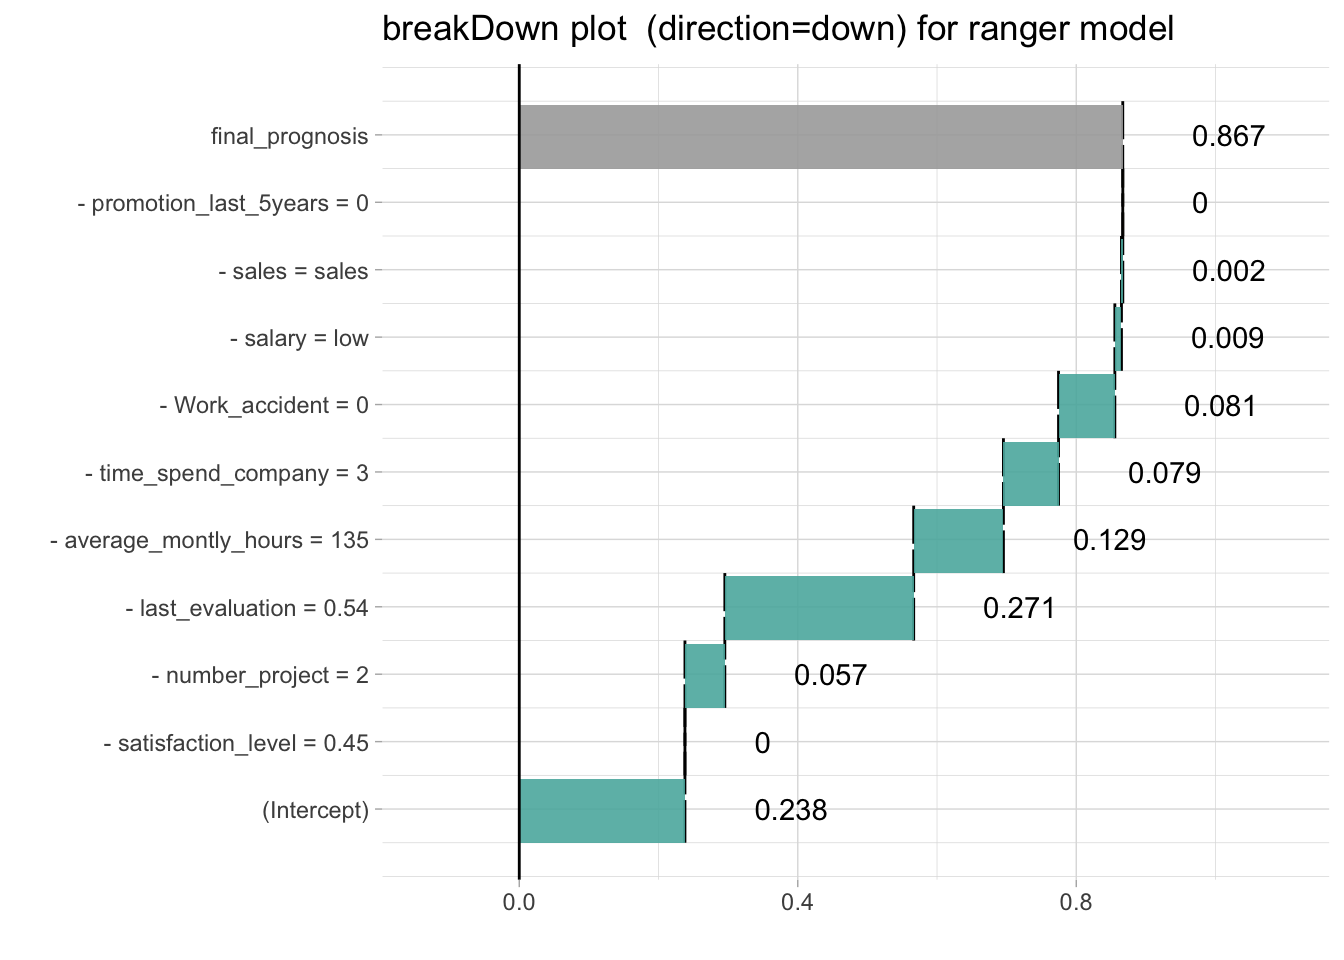
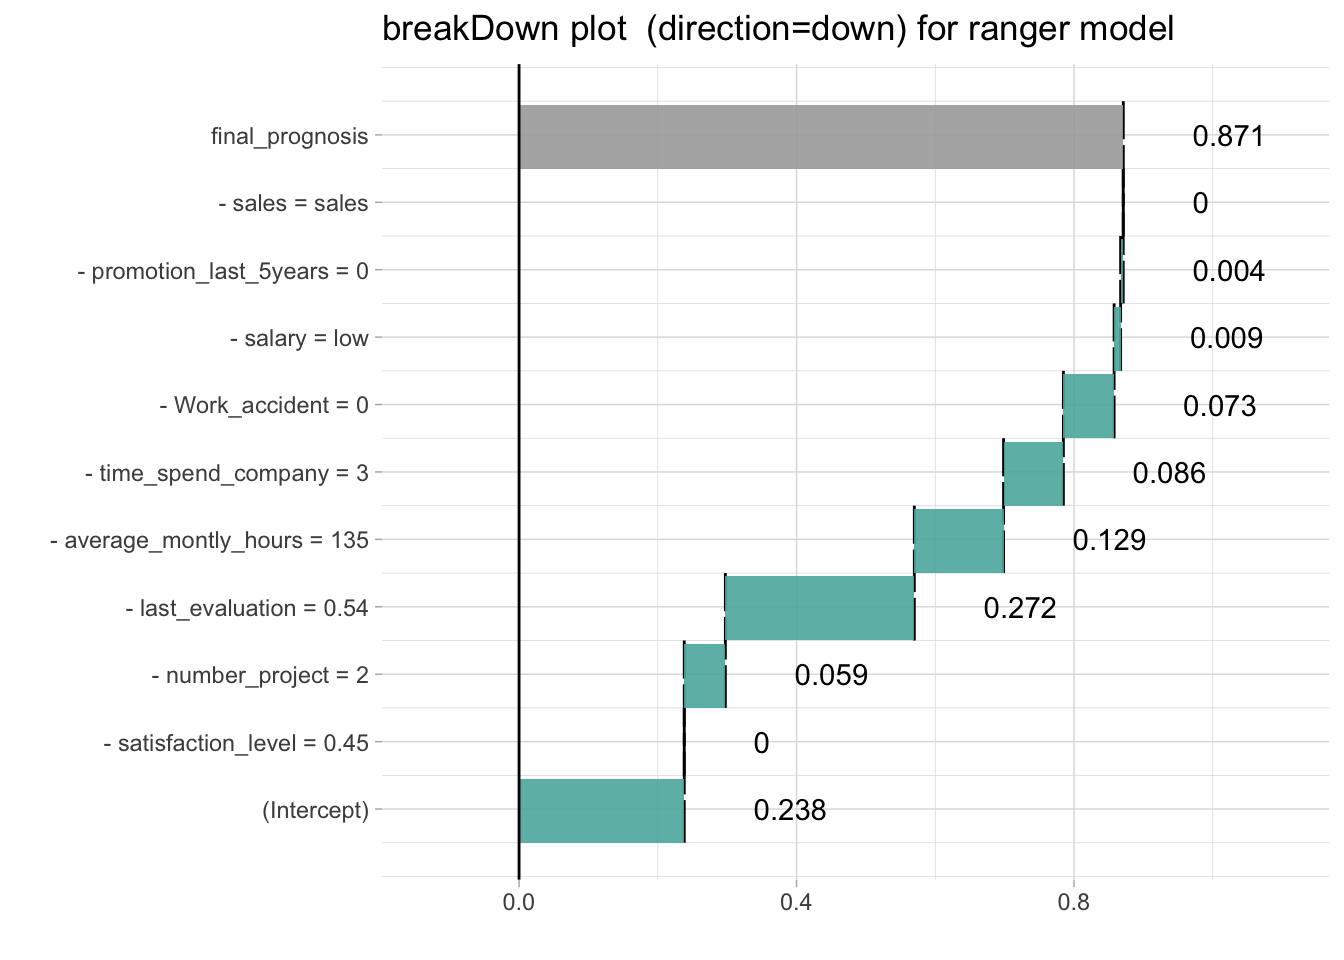
+examples for model agnostic plots

diff --git a/docs/articles/break_ranger.html b/docs/articles/break_ranger.html
@@ -107,7 +107,7 @@ predict.function &lt;-<span class="st"> </span><span class="cf">function</span>(
 
 <span class="kw">predict.function</span>(model, HR_data[<span class="dv">11</span>,])
 <span class="co">#&gt;         1 </span>
-<span class="co">#&gt; 0.8668166</span></code></pre></div>
+<span class="co">#&gt; 0.8710377</span></code></pre></div>
 <p>But how to understand which factors drive predictions for a single observation?</p>
 <p>With the <code>breakDown</code> package!</p>
 <p>Explanations for the trees votings.</p>
@@ -120,15 +120,15 @@ explain_<span class="dv">1</span>
 <span class="co">#&gt;                              contribution</span>
 <span class="co">#&gt; (Intercept)                         0.238</span>
 <span class="co">#&gt; - satisfaction_level = 0.45         0.000</span>
-<span class="co">#&gt; - number_project = 2                0.057</span>
-<span class="co">#&gt; - last_evaluation = 0.54            0.271</span>
+<span class="co">#&gt; - number_project = 2                0.059</span>
+<span class="co">#&gt; - last_evaluation = 0.54            0.272</span>
 <span class="co">#&gt; - average_montly_hours = 135        0.129</span>
-<span class="co">#&gt; - time_spend_company = 3            0.079</span>
-<span class="co">#&gt; - Work_accident = 0                 0.081</span>
+<span class="co">#&gt; - time_spend_company = 3            0.086</span>
+<span class="co">#&gt; - Work_accident = 0                 0.073</span>
 <span class="co">#&gt; - salary = low                      0.009</span>
-<span class="co">#&gt; - sales = sales                     0.002</span>
-<span class="co">#&gt; - promotion_last_5years = 0         0.000</span>
-<span class="co">#&gt; final_prognosis                     0.867</span>
+<span class="co">#&gt; - promotion_last_5years = 0         0.004</span>
+<span class="co">#&gt; - sales = sales                     0.000</span>
+<span class="co">#&gt; final_prognosis                     0.871</span>
 <span class="co">#&gt; baseline:  0</span>
 <span class="kw">plot</span>(explain_<span class="dv">1</span>) <span class="op">+</span><span class="st"> </span><span class="kw"><a href="http://www.rdocumentation.org/packages/ggplot2/topics/labs">ggtitle</a></span>(<span class="st">"breakDown plot  (direction=down) for ranger model"</span>)</code></pre></div>
 <p><img src="break_ranger_files/figure-html/unnamed-chunk-3-1.png" width="672"></p>
@@ -139,16 +139,16 @@ explain_<span class="dv">2</span> &lt;-<span class="st"> </span><span class="kw"
 explain_<span class="dv">2</span>
 <span class="co">#&gt;                              contribution</span>
 <span class="co">#&gt; (Intercept)                         0.238</span>
-<span class="co">#&gt; + satisfaction_level = 0.45         0.057</span>
-<span class="co">#&gt; + number_project = 2                0.271</span>
+<span class="co">#&gt; + satisfaction_level = 0.45         0.059</span>
+<span class="co">#&gt; + number_project = 2                0.272</span>
 <span class="co">#&gt; + last_evaluation = 0.54            0.129</span>
-<span class="co">#&gt; + average_montly_hours = 135        0.079</span>
-<span class="co">#&gt; + time_spend_company = 3            0.081</span>
+<span class="co">#&gt; + average_montly_hours = 135        0.086</span>
+<span class="co">#&gt; + time_spend_company = 3            0.073</span>
 <span class="co">#&gt; + Work_accident = 0                 0.009</span>
-<span class="co">#&gt; + salary = low                      0.002</span>
+<span class="co">#&gt; + salary = low                      0.004</span>
 <span class="co">#&gt; + promotion_last_5years = 0         0.000</span>
 <span class="co">#&gt; + sales = sales                     0.000</span>
-<span class="co">#&gt; final_prognosis                     0.867</span>
+<span class="co">#&gt; final_prognosis                     0.871</span>
 <span class="co">#&gt; baseline:  0</span>
 <span class="kw">plot</span>(explain_<span class="dv">2</span>) <span class="op">+</span><span class="st"> </span><span class="kw"><a href="http://www.rdocumentation.org/packages/ggplot2/topics/labs">ggtitle</a></span>(<span class="st">"breakDown plot (direction=up) for ranger model"</span>)</code></pre></div>
 <p><img src="break_ranger_files/figure-html/unnamed-chunk-3-2.png" width="672"></p>

diff --git a/docs/reference/broken.default.html b/docs/reference/broken.default.html
@@ -153,6 +153,27 @@
 
     <h2 class="hasAnchor" id="examples"><a class="anchor" href="#examples"></a>Examples</h2>
     <pre class="examples"><div class='input'>
+<span class='fu'>library</span>(<span class='st'>"breakDown"</span>)
+<span class='fu'>library</span>(<span class='st'>"randomForest"</span>)
+<span class='fu'>library</span>(<span class='st'>"ggplot2"</span>)
+<span class='fu'>set.seed</span>(<span class='fl'>1313</span>)
+<span class='no'>model</span> <span class='kw'>&lt;-</span> <span class='fu'><a href='http://www.rdocumentation.org/packages/randomForest/topics/randomForest'>randomForest</a></span>(<span class='fu'>factor</span>(<span class='no'>left</span>)~<span class='no'>.</span>, <span class='kw'>data</span> <span class='kw'>=</span> <span class='no'>HR_data</span>, <span class='kw'>family</span> <span class='kw'>=</span> <span class='st'>"binomial"</span>, <span class='kw'>maxnodes</span> <span class='kw'>=</span> <span class='fl'>5</span>)
+<span class='no'>predict.function</span> <span class='kw'>&lt;-</span> <span class='kw'>function</span>(<span class='no'>model</span>, <span class='no'>new_observation</span>) <span class='fu'>predict</span>(<span class='no'>model</span>, <span class='no'>new_observation</span>, <span class='kw'>type</span><span class='kw'>=</span><span class='st'>"prob"</span>)[,<span class='fl'>2</span>]
+<span class='fu'>predict.function</span>(<span class='no'>model</span>, <span class='no'>HR_data</span>[<span class='fl'>11</span>,-<span class='fl'>7</span>])</div><div class='output co'>#&gt; [1] 0.888</div><div class='input'><span class='no'>explain_1</span> <span class='kw'>&lt;-</span> <span class='fu'><a href='broken.html'>broken</a></span>(<span class='no'>model</span>, <span class='no'>HR_data</span>[<span class='fl'>11</span>,-<span class='fl'>7</span>], <span class='kw'>data</span> <span class='kw'>=</span> <span class='no'>HR_data</span>[,-<span class='fl'>7</span>],
+<span class='kw'>predict.function</span> <span class='kw'>=</span> <span class='no'>predict.function</span>, <span class='kw'>direction</span> <span class='kw'>=</span> <span class='st'>"down"</span>)
+<span class='no'>explain_1</span></div><div class='output co'>#&gt;                              contribution
+#&gt; (Intercept)                         0.148
+#&gt; - satisfaction_level = 0.45         0.000
+#&gt; - number_project = 2                0.133
+#&gt; - last_evaluation = 0.54            0.201
+#&gt; - average_montly_hours = 135        0.182
+#&gt; - time_spend_company = 3            0.141
+#&gt; - Work_accident = 0                 0.068
+#&gt; - salary = low                      0.010
+#&gt; - sales = sales                     0.005
+#&gt; - promotion_last_5years = 0         0.000
+#&gt; final_prognosis                     0.888
+#&gt; baseline:  0 </div><div class='input'><span class='fu'>plot</span>(<span class='no'>explain_1</span>) + <span class='fu'><a href='http://www.rdocumentation.org/packages/ggplot2/topics/labs'>ggtitle</a></span>(<span class='st'>"breakDown plot (direction=down) for randomForest model"</span>)</div><div class='img'><img src='broken.default-1.png' alt='' width='700' height='432.632880098887' /></div><div class='input'>
 </div></pre>
   </div>
   <div class="col-md-3 hidden-xs hidden-sm" id="sidebar">

diff --git a/docs/reference/broken.glm.html b/docs/reference/broken.glm.html
@@ -148,7 +148,7 @@
 <span class='no'>new_observation</span> <span class='kw'>&lt;-</span> <span class='no'>wine</span>[<span class='fl'>1</span>,]
 <span class='no'>br</span> <span class='kw'>&lt;-</span> <span class='fu'><a href='broken.html'>broken</a></span>(<span class='no'>modelg</span>, <span class='no'>new_observation</span>)
 <span class='no'>logit</span> <span class='kw'>&lt;-</span> <span class='kw'>function</span>(<span class='no'>x</span>) <span class='fu'>exp</span>(<span class='no'>x</span>)/(<span class='fl'>1</span>+<span class='fu'>exp</span>(<span class='no'>x</span>))
-<span class='fu'>plot</span>(<span class='no'>br</span>, <span class='no'>logit</span>)</div><div class='img'><img src='broken.glm-1.png' alt='' width='700' height='432.632880098887' /></div><div class='input'>
+<span class='fu'>plot</span>(<span class='no'>br</span>, <span class='no'>logit</span>)</div><div class='img'><img src='broken.glm-4.png' alt='' width='700' height='432.632880098887' /></div><div class='input'>
 <span class='co'># example for HR_data</span>
 <span class='no'>model</span> <span class='kw'>&lt;-</span> <span class='fu'>glm</span>(<span class='no'>left</span>~<span class='no'>.</span>, <span class='kw'>data</span> <span class='kw'>=</span> <span class='no'>HR_data</span>, <span class='kw'>family</span> <span class='kw'>=</span> <span class='st'>"binomial"</span>)
 <span class='no'>explain_1</span> <span class='kw'>&lt;-</span> <span class='fu'><a href='broken.html'>broken</a></span>(<span class='no'>model</span>, <span class='no'>HR_data</span>[<span class='fl'>1</span>,])
@@ -164,7 +164,7 @@
 #&gt; promotion_last_5years = 0         0.030
 #&gt; sales = sales                     0.014
 #&gt; final_prognosis                   0.118
-#&gt; baseline:  0 </div><div class='input'><span class='fu'>plot</span>(<span class='no'>explain_1</span>)</div><div class='img'><img src='broken.glm-2.png' alt='' width='700' height='432.632880098887' /></div><div class='input'><span class='fu'>plot</span>(<span class='no'>explain_1</span>, <span class='kw'>trans</span> <span class='kw'>=</span> <span class='kw'>function</span>(<span class='no'>x</span>) <span class='fu'>exp</span>(<span class='no'>x</span>)/(<span class='fl'>1</span>+<span class='fu'>exp</span>(<span class='no'>x</span>)))</div><div class='img'><img src='broken.glm-3.png' alt='' width='700' height='432.632880098887' /></div><div class='input'>
+#&gt; baseline:  0 </div><div class='input'><span class='fu'>plot</span>(<span class='no'>explain_1</span>)</div><div class='img'><img src='broken.glm-5.png' alt='' width='700' height='432.632880098887' /></div><div class='input'><span class='fu'>plot</span>(<span class='no'>explain_1</span>, <span class='kw'>trans</span> <span class='kw'>=</span> <span class='kw'>function</span>(<span class='no'>x</span>) <span class='fu'>exp</span>(<span class='no'>x</span>)/(<span class='fl'>1</span>+<span class='fu'>exp</span>(<span class='no'>x</span>)))</div><div class='img'><img src='broken.glm-6.png' alt='' width='700' height='432.632880098887' /></div><div class='input'>
 </div></pre>
   </div>
   <div class="col-md-3 hidden-xs hidden-sm" id="sidebar">

diff --git a/docs/reference/broken.lm.html b/docs/reference/broken.lm.html
@@ -142,12 +142,12 @@
     <pre class="examples"><div class='input'><span class='no'>model</span> <span class='kw'>&lt;-</span> <span class='fu'>lm</span>(<span class='no'>Sepal.Length</span>~<span class='no'>.</span>, <span class='kw'>data</span><span class='kw'>=</span><span class='no'>iris</span>)
 <span class='no'>new_observation</span> <span class='kw'>&lt;-</span> <span class='no'>iris</span>[<span class='fl'>1</span>,]
 <span class='no'>br</span> <span class='kw'>&lt;-</span> <span class='fu'><a href='broken.html'>broken</a></span>(<span class='no'>model</span>, <span class='no'>new_observation</span>)
-<span class='fu'>plot</span>(<span class='no'>br</span>)</div><div class='img'><img src='broken.lm-1.png' alt='' width='700' height='432.632880098887' /></div><div class='input'>
+<span class='fu'>plot</span>(<span class='no'>br</span>)</div><div class='img'><img src='broken.lm-3.png' alt='' width='700' height='432.632880098887' /></div><div class='input'>
 <span class='co'># works for interactions as well</span>
 <span class='no'>model</span> <span class='kw'>&lt;-</span> <span class='fu'>lm</span>(<span class='no'>Sepal.Length</span> ~ <span class='no'>Petal.Width</span>*<span class='no'>Species</span>, <span class='kw'>data</span> <span class='kw'>=</span> <span class='no'>iris</span>)
 <span class='no'>new_observation</span> <span class='kw'>&lt;-</span> <span class='no'>iris</span>[<span class='fl'>1</span>,]
 <span class='no'>br</span> <span class='kw'>&lt;-</span> <span class='fu'><a href='broken.html'>broken</a></span>(<span class='no'>model</span>, <span class='no'>new_observation</span>)
-<span class='fu'>plot</span>(<span class='no'>br</span>)</div><div class='img'><img src='broken.lm-2.png' alt='' width='700' height='432.632880098887' /></div></pre>
+<span class='fu'>plot</span>(<span class='no'>br</span>)</div><div class='img'><img src='broken.lm-4.png' alt='' width='700' height='432.632880098887' /></div></pre>
   </div>
   <div class="col-md-3 hidden-xs hidden-sm" id="sidebar">
     <h2>Contents</h2>

diff --git a/docs/reference/index.html b/docs/reference/index.html
@@ -144,12 +144,6 @@
         </tr><tr>
           <!--  -->
           <td>
-            <p><code><a href="broken.ranger.html">broken</a></code> </p>
-          </td>
-          <td><p>Create the broken object for ranger models</p></td>
-        </tr><tr>
-          <!--  -->
-          <td>
             <p><code><a href="broken.html">broken</a></code> </p>
           </td>
           <td><p>Create the broken object</p></td>
